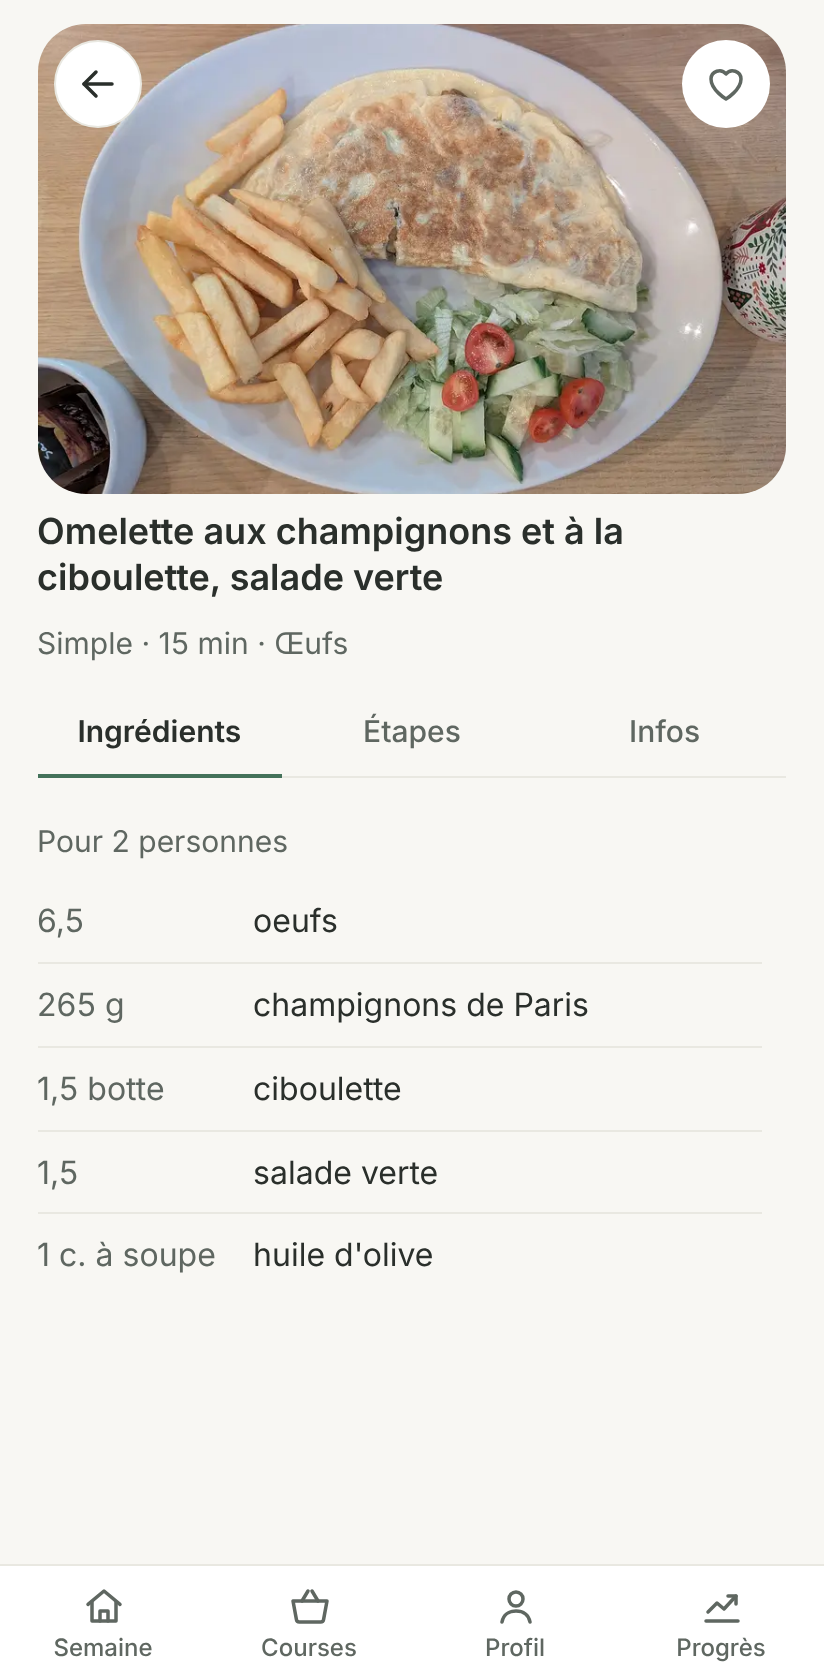
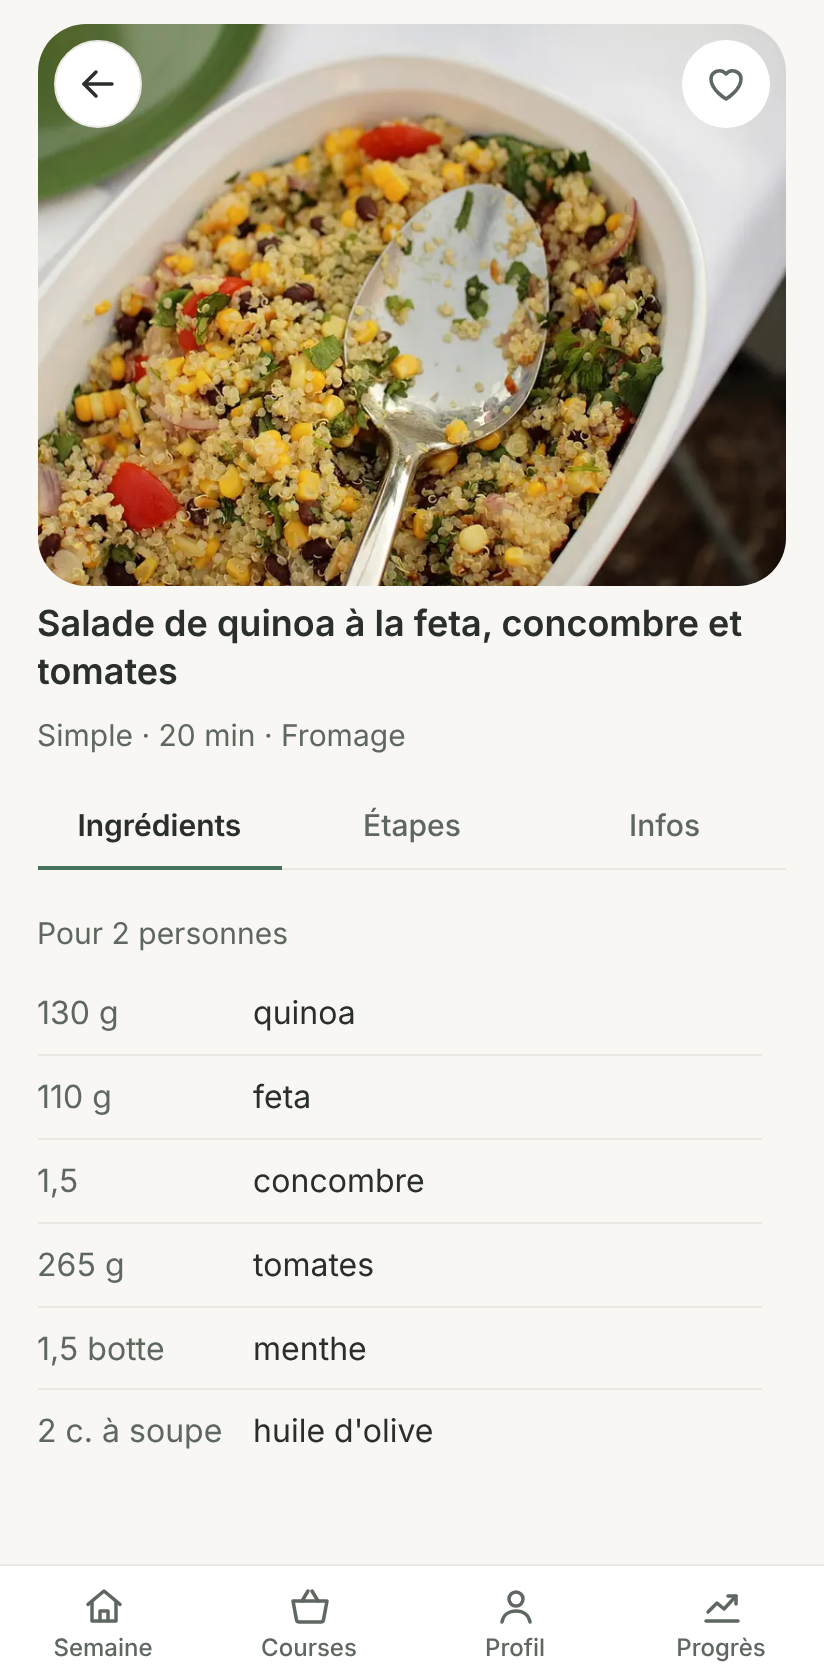
fix(ui): photos jamais recadrées, cartes sans vide, courses (bouton +, fondu des rayons, majuscules), formulaire aligné
Claude-Session: https://claude.ai/code/session_013DAqugnhAV6JwpwQeECSpA

diff --git a/src/presentation/features/week/MealCard.module.css b/src/presentation/features/week/MealCard.module.css
@@ -1,6 +1,7 @@
 /*
- * Carte du repas : l'image du plat occupe toute la largeur (et la hauteur que lui laisse le
- * texte), puis le nom, une ligne de méta, « Pourquoi ce plat ? » et trois actions au trait.
+ * Carte du repas : l'image du plat est toujours montrée en entier (ratio 4:3 de la photo,
+ * jamais recadrée) ; la carte se cale sur son contenu et se centre dans la zone disponible.
+ * Quand la hauteur manque, l'image rétrécit en gardant son ratio. Puis le nom, une ligne de méta, « Pourquoi ce plat ? » et trois actions au trait.
  * Toute la surface mène à la recette (lien étiré sur le nom).
  * Téléphone : verticale ; tablette en portrait : horizontale (image à gauche) ; paysage et
  * ordinateur : verticale, plusieurs cartes côte à côte.
@@ -8,9 +9,11 @@
 .card {
   position: relative;
   display: flex;
-  flex: 1;
+  flex: 0 1 auto;
   flex-direction: column;
   min-height: 0;
+  max-height: 100%;
+  margin-block: auto;
   padding: 0;
   overflow: hidden auto;
   border: 1px solid var(--color-border);
@@ -24,10 +27,14 @@
   flex: none;
 }
 
+/* --meal-chrome : hauteur de tout ce qui entoure l'image (en-tête, jours, texte, barre d'onglets). */
 .card .art {
-  flex: 1 1 8rem;
-  min-height: 8rem;
-  border-radius: 0;
+  --meal-chrome: 27rem;
+
+  align-self: center;
+  width: min(calc(100% - 2 * var(--space-2)), calc((100dvh - var(--meal-chrome)) * 4 / 3));
+  margin: var(--space-2) var(--space-2) 0;
+  border-radius: var(--radius-lg);
 }
 
 .text {
@@ -149,8 +156,7 @@
 /* Écrans bas : on resserre pour que tout tienne sans défiler. */
 @media (max-height: 760px) {
   .card .art {
-    flex-basis: 6rem;
-    min-height: 6rem;
+    margin-top: var(--space-1);
   }
 
   .text {
@@ -168,11 +174,14 @@
   .card {
     flex-direction: row;
     align-items: stretch;
+    margin-block: 0; /* les cartes sont centrées en groupe par la grille de la page */
   }
 
   .card .art {
-    flex: 0 0 45%;
-    min-height: 0;
+    flex: 0 0 52%;
+    align-self: flex-start;
+    width: auto;
+    margin: var(--space-2);
   }
 
   .text {
@@ -200,8 +209,12 @@
   }
 
   .card .art {
-    flex: 1 1 10rem;
-    min-height: 10rem;
+    --meal-chrome: 26rem;
+
+    flex: none;
+    align-self: center;
+    width: min(calc(100% - 2 * var(--space-2)), calc((100dvh - var(--meal-chrome)) * 4 / 3));
+    margin: var(--space-2) var(--space-2) 0;
   }
 
   .text {

diff --git a/src/presentation/illustrations/DishImage.tsx b/src/presentation/illustrations/DishImage.tsx
@@ -14,8 +14,6 @@ interface DishImageProps {
   readonly ratio?: string | undefined;
   /** Image principale visible dès l'ouverture : chargée tout de suite (sinon `lazy`). */
   readonly priority?: boolean | undefined;
-  /** Remplit la hauteur que lui laisse son conteneur (pas de ratio) : une hauteur minimale la réserve. */
-  readonly fill?: boolean | undefined;
   /** Dégradé léger en bas de l'image, pour du texte posé dessus. */
   readonly scrim?: boolean | undefined;
   readonly className?: string | undefined;
@@ -23,7 +21,7 @@ interface DishImageProps {
 
 /**
  * Image d'un plat : photo si `src` est fournie, sinon (ou si elle ne charge pas, par
- * exemple hors ligne) l'illustration maison. Cadrage `cover`, coins arrondis, ratio fixe.
+ * exemple hors ligne) l'illustration maison. Ratio fixe 4:3 (celui des photos : pas de recadrage visible), coins arrondis.
  */
 export function DishImage({
   recipe,
@@ -32,15 +30,14 @@ export function DishImage({
   ratio = '4 / 3',
   priority = false,
   scrim = false,
-  fill = false,
   className,
 }: DishImageProps) {
   const [failedSrc, setFailedSrc] = useState<string | undefined>();
   const showPhoto = src !== undefined && src !== failedSrc;
   return (
     <div
-      className={[styles.frame, fill ? styles.fill : '', className ?? ''].filter(Boolean).join(' ')}
-      style={fill ? undefined : { aspectRatio: ratio }}
+      className={[styles.frame, className ?? ''].filter(Boolean).join(' ')}
+      style={{ aspectRatio: ratio }}
       data-photo={showPhoto ? 'true' : 'false'}
     >
       {showPhoto ? (

diff --git a/src/presentation/components/SegmentedTabs.tsx b/src/presentation/components/SegmentedTabs.tsx
@@ -1,4 +1,4 @@
-import { useRef } from 'react';
+import { useCallback, useEffect, useRef } from 'react';
 import type { KeyboardEvent, ReactNode } from 'react';
 import { panelId, tabId } from './tabIds';
 import styles from './SegmentedTabs.module.css';
@@ -41,6 +41,24 @@ export function SegmentedTabs<T extends string>({
   className,
 }: SegmentedTabsProps<T>) {
   const refs = useRef(new Map<string, HTMLButtonElement>());
+  const listRef = useRef<HTMLDivElement>(null);
+
+  // Puces défilables : fondu aux bords où il reste du contenu (attributs lus par la CSS).
+  const updateFades = useCallback(() => {
+    const list = listRef.current;
+    if (!list) return;
+    const max = list.scrollWidth - list.clientWidth;
+    list.toggleAttribute('data-fade-start', list.scrollLeft > 1);
+    list.toggleAttribute('data-fade-end', list.scrollLeft < max - 1);
+  }, []);
+  useEffect(() => {
+    if (variant !== 'chips') return;
+    updateFades();
+    window.addEventListener('resize', updateFades);
+    return () => {
+      window.removeEventListener('resize', updateFades);
+    };
+  }, [variant, tabs.length, updateFades]);
 
   const select = (index: number) => {
     const target = tabs[(index + tabs.length) % tabs.length];
@@ -66,6 +84,8 @@ export function SegmentedTabs<T extends string>({
     <div
       role="tablist"
       aria-label={label}
+      ref={listRef}
+      onScroll={variant === 'chips' ? updateFades : undefined}
       className={[styles.list, styles[variant], className ?? ''].filter(Boolean).join(' ')}
     >
       {tabs.map((tab, index) => {

diff --git a/src/presentation/pages/RecipePage.module.css b/src/presentation/pages/RecipePage.module.css
@@ -27,13 +27,12 @@
 .hero {
   position: relative;
   flex: 0 0 auto;
-  height: clamp(9rem, 28dvh, 15rem);
+  width: min(100%, calc(clamp(9rem, 34dvh, 26rem) * 4 / 3));
+  margin-inline: auto;
 }
 
+/* Photo entière (4:3), jamais recadrée : sa largeur suit la hauteur qu'on lui accorde. */
 .recipe .heroImage {
-  position: absolute;
-  inset: 0;
-  min-height: 0;
   border-radius: var(--radius-xl);
 }
 
@@ -181,7 +180,7 @@
 /* Tablette en portrait : grande image en tête, titre, puis les onglets qui remplissent le reste. */
 @media (min-width: 768px) and (min-height: 540px) {
   .hero {
-    height: clamp(14rem, 36dvh, 26rem);
+    width: min(100%, calc(clamp(14rem, 40dvh, 32rem) * 4 / 3));
   }
 
   .title {
@@ -198,7 +197,7 @@
   }
 }
 
-/* Paysage et ordinateur : image (qui remplit la hauteur) et titre à gauche, onglets à droite. */
+/* Paysage et ordinateur : photo entière (4:3) et titre à gauche, onglets à droite. */
 @media (min-width: 1000px) and (min-height: 540px) {
   .recipe {
     display: grid;
@@ -210,13 +209,13 @@
   .left {
     flex: 1;
     gap: var(--space-3);
+    justify-content: center;
     min-height: 0;
   }
 
   .hero {
-    flex: 1 1 auto;
-    height: auto;
-    min-height: 12rem;
+    width: min(100%, calc((100dvh - 14rem) * 4 / 3));
+    margin-inline: 0;
   }
 }
 

diff --git a/src/presentation/pages/ShoppingPage.module.css b/src/presentation/pages/ShoppingPage.module.css
@@ -37,7 +37,8 @@
   flex: 1;
   flex-direction: column;
   min-height: 0;
-  padding: var(--space-3) var(--space-2) 0 var(--space-4);
+  /* Le bas de la carte est réservé au bouton « + » : il ne recouvre jamais une ligne. */
+  padding: var(--space-3) var(--space-2) 4.5rem var(--space-4);
   border-radius: var(--radius-xl);
 }
 
@@ -52,7 +53,6 @@
 .scroll {
   flex: 1;
   padding-right: var(--space-2);
-  padding-bottom: 4.5rem;
 }
 
 .items {
@@ -116,6 +116,11 @@
 
 .name {
   flex: 1;
+}
+
+/* Initiale en capitale à l'affichage (« ail » → « Ail »), les données restent intactes. */
+.name::first-letter {
+  text-transform: uppercase;
 }
 
 .qty {
@@ -184,6 +189,11 @@
     padding: 0;
   }
 
+  .layout .rayons[data-fade-start],
+  .layout .rayons[data-fade-end] {
+    mask-image: none;
+  }
+
   .layout .rayons [role='tab'] {
     flex: none;
     justify-content: space-between;
@@ -194,6 +204,6 @@
 
   .fab {
     right: var(--space-3);
-    bottom: var(--space-4);
+    bottom: var(--space-3);
   }
 }

diff --git a/src/presentation/components/SegmentedTabs.module.css b/src/presentation/components/SegmentedTabs.module.css
@@ -52,6 +52,28 @@
   display: none;
 }
 
+/*
+ * Fondu sur les bords : à droite tant qu'il reste des puces à découvrir, à gauche dès qu'on a
+ * défilé (attributs posés par SegmentedTabs). Le défilement horizontal reste libre.
+ */
+.chips[data-fade-end] {
+  mask-image: linear-gradient(to right, #000 calc(100% - 2rem), transparent);
+}
+
+.chips[data-fade-start] {
+  mask-image: linear-gradient(to right, transparent, #000 2rem);
+}
+
+.chips[data-fade-start][data-fade-end] {
+  mask-image: linear-gradient(
+    to right,
+    transparent,
+    #000 2rem,
+    #000 calc(100% - 2rem),
+    transparent
+  );
+}
+
 .chips .tab {
   flex: none;
   padding: 0 var(--space-3);

diff --git a/src/presentation/pages/WeekPage.module.css b/src/presentation/pages/WeekPage.module.css
@@ -51,8 +51,9 @@
 .dayMeals {
   display: grid;
   flex: 1;
-  grid-auto-rows: minmax(0, 1fr);
+  grid-auto-rows: auto;
   grid-template-columns: minmax(0, 1fr);
+  align-content: center;
   gap: var(--space-4);
   min-height: 0;
 }
@@ -127,8 +128,9 @@
 
   .dayMeals {
     grid-template-columns: repeat(var(--meals, 2), minmax(0, 1fr));
-    grid-template-rows: minmax(0, 1fr);
-    grid-auto-rows: auto;
+    grid-template-rows: auto;
+    align-content: center;
+    align-items: start;
   }
 
   .side {

diff --git a/src/presentation/components/Field.module.css b/src/presentation/components/Field.module.css
@@ -10,6 +10,8 @@
 }
 
 .hint {
+  /* Sous le champ : deux champs côte à côte restent alignés, avec ou sans indication. */
+  order: 2;
   color: var(--color-text-muted);
   font-size: var(--font-size-sm);
 }
@@ -51,6 +53,7 @@
 }
 
 .error {
+  order: 3;
   color: var(--color-danger);
   font-size: var(--font-size-sm);
   font-weight: var(--font-weight-medium);

diff --git a/src/presentation/illustrations/DishImage.module.css b/src/presentation/illustrations/DishImage.module.css
@@ -27,14 +27,3 @@
   background: linear-gradient(to top, rgb(20 28 22 / 55%), transparent);
   pointer-events: none;
 }
-
-/* Remplissage : le cadre prend la hauteur du conteneur, l'image y est posée en absolu. */
-.fill {
-  min-height: 8rem;
-}
-
-.fill .photo,
-.fill .art {
-  position: absolute;
-  inset: 0;
-}

diff --git a/src/presentation/pages/RecipePage.tsx b/src/presentation/pages/RecipePage.tsx
@@ -105,8 +105,7 @@ export function RecipePage() {
             recipe={recipe}
             src={photo}
             alt={recipe.name}
-            ratio="16 / 10"
-            fill
+            ratio="4 / 3"
             priority
             className={styles.heroImage}
           />

diff --git a/src/presentation/features/week/MealCard.tsx b/src/presentation/features/week/MealCard.tsx
@@ -69,7 +69,6 @@ export function MealCard({
         src={photo}
         alt={name}
         ratio="4 / 3"
-        fill
         priority
         className={styles.art}
       />
